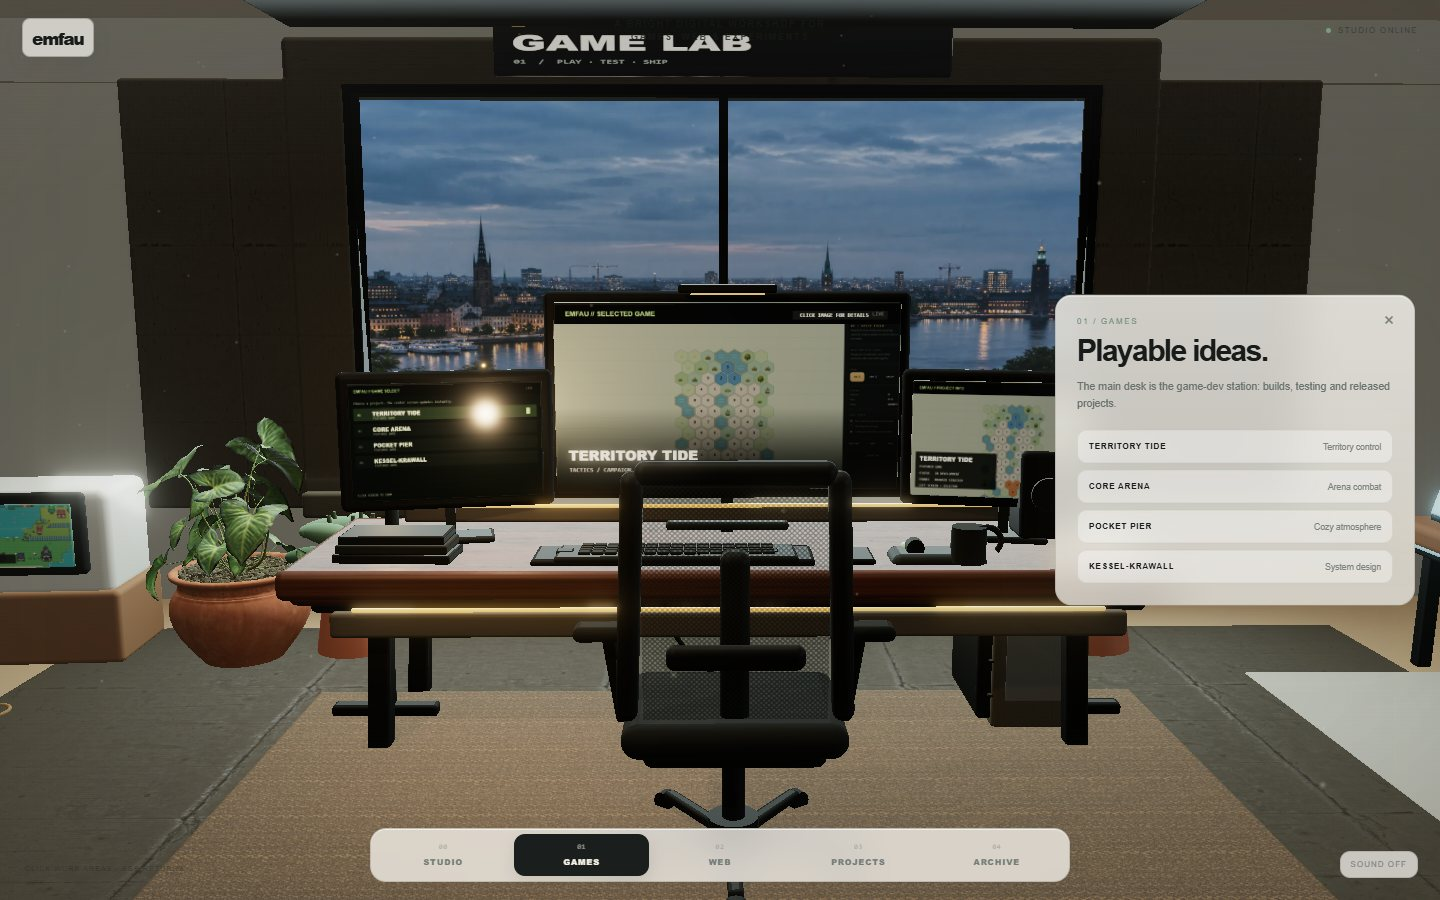
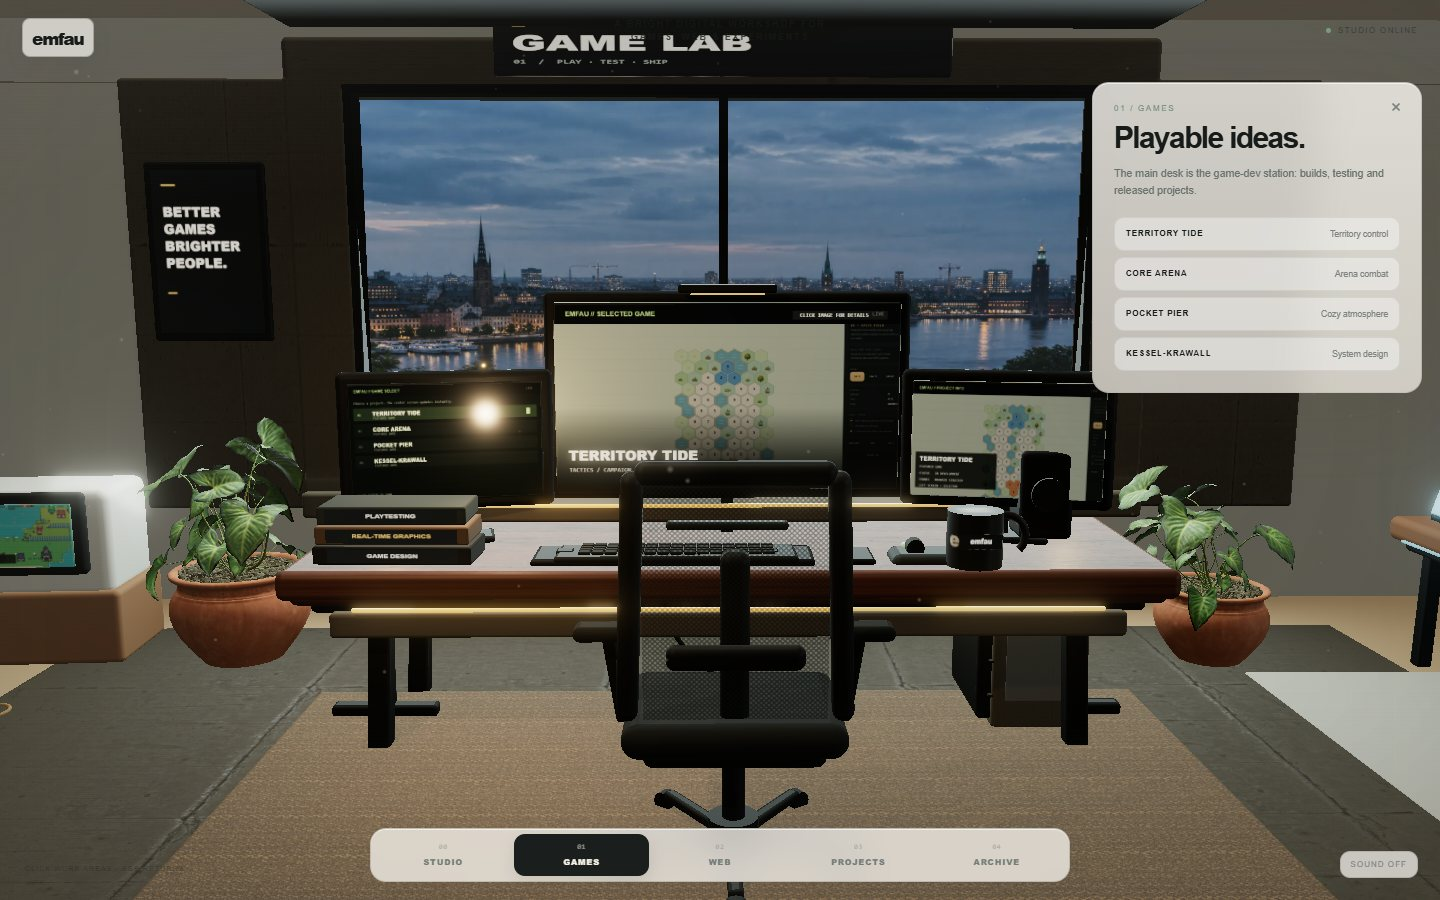
Refine Games desk typography and layout

diff --git a/src/scene/photoreal/gamesHero.ts b/src/scene/photoreal/gamesHero.ts
@@ -9,6 +9,7 @@ export interface GamesHeroMaterials {
   rug: THREE.MeshStandardMaterial
   upholstery: THREE.MeshStandardMaterial
   chairMesh: THREE.MeshStandardMaterial
+  mug: THREE.MeshStandardMaterial
   backdrop: THREE.MeshBasicMaterial
 }
 
@@ -55,6 +56,105 @@ function cylinder(
   mesh.receiveShadow = true
   root.add(mesh)
   return mesh
+}
+
+function canvasMaterial(
+  width: number,
+  height: number,
+  paint: (context: CanvasRenderingContext2D, canvas: HTMLCanvasElement) => void,
+): THREE.MeshBasicMaterial {
+  const canvas = document.createElement('canvas')
+  canvas.width = width
+  canvas.height = height
+  const context = canvas.getContext('2d')
+  if (!context) {
+    const fallback = new THREE.MeshBasicMaterial({ color: 0x171918 })
+    fallback.userData.heroOwned = true
+    return fallback
+  }
+  paint(context, canvas)
+  const texture = new THREE.CanvasTexture(canvas)
+  texture.colorSpace = THREE.SRGBColorSpace
+  texture.anisotropy = 4
+  const material = new THREE.MeshBasicMaterial({ map: texture, toneMapped: false })
+  material.userData.heroOwned = true
+  return material
+}
+
+function addBookStack(root: THREE.Group): void {
+  const labels = ['GAME DESIGN', 'REAL-TIME GRAPHICS', 'PLAYTESTING']
+  const colors = [0x242725, 0x66503d, 0x343a35]
+  for (let index = 0; index < labels.length; index += 1) {
+    const text = labels[index] ?? ''
+    const y = 1.285 + index * 0.122
+    const bookMaterial = new THREE.MeshStandardMaterial({
+      color: colors[index] ?? 0x242725,
+      roughness: 0.78,
+      metalness: 0.02,
+    })
+    bookMaterial.userData.heroOwned = true
+    roundedBox(root, 'DeskBook', [0.96 - index * 0.035, 0.112, 0.4], [-2.02, y, -3.01], bookMaterial, 0.014, 2, [0, -0.035 + index * 0.018, 0])
+
+    const labelMaterial = canvasMaterial(512, 72, (context, canvas) => {
+      context.fillStyle = '#242624'
+      context.fillRect(0, 0, canvas.width, canvas.height)
+      context.fillStyle = index === 1 ? '#e0bd76' : '#ece8dc'
+      context.font = '700 28px Arial'
+      context.textAlign = 'center'
+      context.textBaseline = 'middle'
+      context.fillText(text, canvas.width / 2, canvas.height / 2)
+    })
+    const label = new THREE.Mesh(new THREE.PlaneGeometry(0.79, 0.084), labelMaterial)
+    label.name = 'DeskBookLabel'
+    label.position.set(-2.02, y, -2.806)
+    label.rotation.y = -0.035 + index * 0.018
+    root.add(label)
+  }
+}
+
+function addTypographyPoster(root: THREE.Group, materials: GamesHeroMaterials): void {
+  roundedBox(root, 'GamesTypographyPosterFrame', [1.02, 1.52, 0.065], [-4.42, 3.12, -6.23], materials.graphite, 0.028, 4)
+  const posterMaterial = canvasMaterial(640, 960, (context, canvas) => {
+    context.fillStyle = '#171918'
+    context.fillRect(0, 0, canvas.width, canvas.height)
+    context.fillStyle = '#d9b66f'
+    context.fillRect(62, 82, 84, 9)
+    context.fillStyle = '#eee9dd'
+    context.font = '800 78px Arial'
+    context.textAlign = 'left'
+    context.textBaseline = 'top'
+    for (const [line, y] of [['BETTER', 210], ['GAMES', 310], ['BRIGHTER', 410], ['PEOPLE.', 510]] as const) {
+      context.fillText(line, 62, y)
+    }
+    context.fillStyle = '#d9b66f'
+    context.fillRect(62, 716, 54, 7)
+  })
+  const poster = new THREE.Mesh(new THREE.PlaneGeometry(0.9, 1.38), posterMaterial)
+  poster.name = 'GamesTypographyPoster'
+  poster.position.set(-4.42, 3.12, -6.194)
+  root.add(poster)
+}
+
+function placePlant(root: THREE.Group, plant: THREE.Object3D, name: string, position: readonly [number, number, number], height: number, rotationY: number): void {
+  const plantAnchor = new THREE.Group()
+  plantAnchor.name = name
+  plantAnchor.position.set(...position)
+  plant.updateWorldMatrix(true, true)
+  const initialBounds = new THREE.Box3().setFromObject(plant)
+  const initialHeight = initialBounds.getSize(new THREE.Vector3()).y
+  plant.scale.setScalar(initialHeight > 0 ? height / initialHeight : 1)
+  plant.updateWorldMatrix(true, true)
+  const scaledBounds = new THREE.Box3().setFromObject(plant)
+  plant.position.y -= scaledBounds.min.y
+  plant.rotation.y = rotationY
+  plant.traverse((object) => {
+    if (!(object instanceof THREE.Mesh)) return
+    object.castShadow = true
+    object.receiveShadow = true
+    object.userData.assetManagedGeometry = true
+  })
+  plantAnchor.add(plant)
+  root.add(plantAnchor)
 }
 
 function buildChair(root: THREE.Group, materials: GamesHeroMaterials, segments: number): void {
@@ -128,17 +228,29 @@ function buildDeskDetails(root: THREE.Group, materials: GamesHeroMaterials, segm
   keys.castShadow = true
   keyboard.add(keys)
 
-  cylinder(root, 'DeskMug', 0.105, 0.22, [1.45, 1.34, -2.86], materials.upholstery, segments)
-  const handle = new THREE.Mesh(new THREE.TorusGeometry(0.085, 0.018, 8, Math.max(16, segments), Math.PI * 1.55), materials.upholstery)
+  cylinder(root, 'DeskMug', 0.168, 0.336, [1.48, 1.388, -2.84], materials.mug, segments, [0, Math.PI, 0])
+  const handle = new THREE.Mesh(new THREE.TorusGeometry(0.126, 0.026, 8, Math.max(16, segments), Math.PI * 1.55), materials.mug)
   handle.name = 'DeskMugHandle'
-  handle.position.set(1.56, 1.36, -2.86)
+  handle.position.set(1.66, 1.4, -2.84)
   handle.rotation.z = -Math.PI * 0.25
   handle.castShadow = true
   root.add(handle)
 
-  for (let index = 0; index < 3; index += 1) {
-    roundedBox(root, 'DeskBook', [0.72 - index * 0.04, 0.055, 0.34], [-2.04, 1.25 + index * 0.058, -3.03], index === 1 ? materials.upholstery : materials.graphite, 0.012, 2, [0, -0.05 + index * 0.025, 0])
-  }
+  const mugLabelMaterial = canvasMaterial(512, 144, (context, canvas) => {
+    context.fillStyle = '#171918'
+    context.fillRect(0, 0, canvas.width, canvas.height)
+    context.fillStyle = '#f2eee3'
+    context.font = '900 78px Arial'
+    context.textAlign = 'center'
+    context.textBaseline = 'middle'
+    context.fillText('emfau', canvas.width / 2, canvas.height / 2)
+  })
+  const mugLabel = new THREE.Mesh(new THREE.PlaneGeometry(0.25, 0.082), mugLabelMaterial)
+  mugLabel.name = 'DeskMugLabel'
+  mugLabel.position.set(1.48, 1.4, -2.669)
+  root.add(mugLabel)
+
+  addBookStack(root)
 
   roundedBox(root, 'MonitorLightBar', [0.64, 0.055, 0.075], [0, 2.86, -3.57], materials.graphite, 0.018, 3)
   const lightBarGlow = new THREE.MeshBasicMaterial({ color: 0xffc775, toneMapped: false })
@@ -146,7 +258,7 @@ function buildDeskDetails(root: THREE.Group, materials: GamesHeroMaterials, segm
   roundedBox(root, 'MonitorLightBarGlow', [0.48, 0.012, 0.018], [0, 2.825, -3.52], lightBarGlow, 0.005, 2)
 }
 
-export function buildGamesHero(scene: THREE.Scene, budget: SceneDetailBudget, materials: GamesHeroMaterials, heroPlant: THREE.Object3D | null): GamesHeroController {
+export function buildGamesHero(scene: THREE.Scene, budget: SceneDetailBudget, materials: GamesHeroMaterials, heroPlants: readonly THREE.Object3D[]): GamesHeroController {
   const root = new THREE.Group()
   root.name = 'GamesPhotorealHero'
   scene.add(root)
@@ -164,29 +276,10 @@ export function buildGamesHero(scene: THREE.Scene, budget: SceneDetailBudget, ma
   roundedBox(root, 'GamesWovenRug', [5.72, 0.045, 3.35], [0, 0.025, -2.2], materials.rug, 0.065, 4)
   buildDeskDetails(root, materials, Math.max(16, budget.cylinderSegments))
   buildChair(root, materials, Math.max(16, budget.cylinderSegments))
+  addTypographyPoster(root, materials)
 
-  if (heroPlant) {
-    const plantAnchor = new THREE.Group()
-    plantAnchor.name = 'GamesHeroPlant'
-    plantAnchor.position.set(-3.72, 0, -4.72)
-    heroPlant.updateWorldMatrix(true, true)
-    const initialBounds = new THREE.Box3().setFromObject(heroPlant)
-    const initialHeight = initialBounds.getSize(new THREE.Vector3()).y
-    const scale = initialHeight > 0 ? 1.82 / initialHeight : 1
-    heroPlant.scale.setScalar(scale)
-    heroPlant.updateWorldMatrix(true, true)
-    const scaledBounds = new THREE.Box3().setFromObject(heroPlant)
-    heroPlant.position.y -= scaledBounds.min.y
-    heroPlant.rotation.y = -0.42
-    heroPlant.traverse((object) => {
-      if (!(object instanceof THREE.Mesh)) return
-      object.castShadow = true
-      object.receiveShadow = true
-      object.userData.assetManagedGeometry = true
-    })
-    plantAnchor.add(heroPlant)
-    root.add(plantAnchor)
-  }
+  if (heroPlants[0]) placePlant(root, heroPlants[0], 'GamesHeroPlantLeft', [-3.72, 0, -4.72], 1.82, -0.42)
+  if (heroPlants[1]) placePlant(root, heroPlants[1], 'GamesHeroPlantRight', [3.73, 0, -4.62], 1.48, 0.58)
 
   const hiddenOriginals = new Map<THREE.Object3D, boolean>()
   for (const name of ['Chair', 'rug']) {
@@ -213,7 +306,11 @@ export function buildGamesHero(scene: THREE.Scene, budget: SceneDetailBudget, ma
         for (const material of objectMaterials) if (material.userData.heroOwned) ownedMaterials.add(material)
       })
       for (const geometry of geometries) geometry.dispose()
-      for (const material of ownedMaterials) material.dispose()
+      for (const material of ownedMaterials) {
+        const mapped = material as THREE.Material & { map?: THREE.Texture | null }
+        mapped.map?.dispose()
+        material.dispose()
+      }
     },
   }
 }

diff --git a/src/scene/photoreal/gamesProof.ts b/src/scene/photoreal/gamesProof.ts
@@ -29,6 +29,7 @@ interface MaterialSet {
   rug: THREE.MeshStandardMaterial
   upholstery: THREE.MeshStandardMaterial
   chairMesh: THREE.MeshStandardMaterial
+  mug: THREE.MeshStandardMaterial
   backdrop: THREE.MeshBasicMaterial
   ownedTextures: THREE.Texture[]
 }
@@ -78,6 +79,25 @@ function createChairMeshMaterial(ownedTextures: THREE.Texture[]): THREE.MeshStan
     opacity: 0.92,
     side: THREE.DoubleSide,
   })
+}
+
+function createMugMaterial(ownedTextures: THREE.Texture[]): THREE.MeshStandardMaterial {
+  const canvas = document.createElement('canvas')
+  canvas.width = 768
+  canvas.height = 256
+  const context = canvas.getContext('2d')
+  if (!context) return new THREE.MeshStandardMaterial({ color: 0x171918, roughness: 0.48 })
+  context.fillStyle = '#171918'
+  context.fillRect(0, 0, canvas.width, canvas.height)
+  context.fillStyle = '#f2eee3'
+  context.font = '900 92px Arial'
+  context.textAlign = 'center'
+  context.textBaseline = 'middle'
+  context.fillText('emfau', canvas.width / 2, canvas.height / 2)
+  const texture = new THREE.CanvasTexture(canvas)
+  texture.colorSpace = THREE.SRGBColorSpace
+  ownedTextures.push(texture)
+  return new THREE.MeshStandardMaterial({ map: texture, roughness: 0.42, metalness: 0.03 })
 }
 
 async function loadMaterialSet(assets: AssetManager, anisotropy: number, desktop: boolean): Promise<MaterialSet> {
@@ -157,6 +177,7 @@ async function loadMaterialSet(assets: AssetManager, anisotropy: number, desktop
   upholstery.color.set(0x222522)
   upholstery.roughness = 0.82
   const chairMesh = createChairMeshMaterial(ownedTextures)
+  const mug = createMugMaterial(ownedTextures)
 
   let rug = createPbrMaterial('chairMesh') as THREE.MeshStandardMaterial
   rug.color.set(0x706153)
@@ -187,7 +208,7 @@ async function loadMaterialSet(assets: AssetManager, anisotropy: number, desktop
   }
 
   const backdrop = new THREE.MeshBasicMaterial({ map: backdropTexture, color: 0xffffff, toneMapped: false, fog: false })
-  return { concrete, walnut, graphite, floor, rug, upholstery, chairMesh, backdrop, ownedTextures }
+  return { concrete, walnut, graphite, floor, rug, upholstery, chairMesh, mug, backdrop, ownedTextures }
 }
 
 function addRoundedBox(root: THREE.Group, name: string, size: readonly [number, number, number], position: readonly [number, number, number], material: THREE.Material, radius: number, segments: number): THREE.Mesh {
@@ -234,7 +255,7 @@ function buildShell(materials: MaterialSet, budget: SceneDetailBudget): THREE.Gr
 function collectLegacyWindowLayers(scene: THREE.Scene): Map<THREE.Object3D, boolean> {
   const originals = new Map<THREE.Object3D, boolean>()
   scene.traverse((object) => {
-    if (['sky', 'City', 'mullion', 'windowTop', 'windowBottom', 'GamesPortalRibs'].includes(object.name)) {
+    if (['sky', 'City', 'mullion', 'windowTop', 'windowBottom', 'GamesPortalRibs', 'Plant'].includes(object.name)) {
       originals.set(object, object.visible)
     }
   })
@@ -267,15 +288,19 @@ export async function createGamesPhotorealProof(options: GamesProofOptions): Pro
   const { scene, renderer, materials: current, budget, quality, assets } = options
   const desktop = quality.name === 'desktop'
   const legacyWindowLayers = collectLegacyWindowLayers(scene)
-  const [materials, heroPlant] = await Promise.all([
+  const [materials, leftHeroPlant, rightHeroPlant] = await Promise.all([
     loadMaterialSet(assets, budget.textureAnisotropy, desktop),
+    desktop
+      ? assets.loadModel(`${ASSET_ROOT}models/potted-plant-02.glb`).then((model) => model.root).catch(() => null)
+      : Promise.resolve(null),
     desktop
       ? assets.loadModel(`${ASSET_ROOT}models/potted-plant-02.glb`).then((model) => model.root).catch(() => null)
       : Promise.resolve(null),
   ])
   const shell = buildShell(materials, budget)
   scene.add(shell)
-  const hero = buildGamesHero(scene, budget, materials, heroPlant)
+  const heroPlants = [leftHeroPlant, rightHeroPlant].filter((plant): plant is THREE.Object3D => plant !== null)
+  const hero = buildGamesHero(scene, budget, materials, heroPlants)
   const originals = swapGamesMaterials(scene, current, materials)
 
   const previousEnvironment = scene.environment
@@ -335,7 +360,7 @@ export async function createGamesPhotorealProof(options: GamesProofOptions): Pro
       setActive(false)
       shell.removeFromParent()
       hero.dispose()
-      if (heroPlant) assets.release(heroPlant)
+      for (const plant of heroPlants) assets.release(plant)
       key.removeFromParent()
       key.target.removeFromParent()
       fill.removeFromParent()
@@ -349,6 +374,7 @@ export async function createGamesPhotorealProof(options: GamesProofOptions): Pro
       materials.rug.dispose()
       materials.upholstery.dispose()
       materials.chairMesh.dispose()
+      materials.mug.dispose()
       materials.backdrop.dispose()
       for (const texture of materials.ownedTextures) texture.dispose()
     },

diff --git a/src/styles/base.css b/src/styles/base.css
@@ -116,6 +116,13 @@ body.focus .info{opacity:1;pointer-events:auto;transform:translateY(-50%) transl
 
 /* Contextual HUD composition */
 
+/* Games: leave the desk surface and hero props unobstructed. */
+body.view-games .info{
+  right:18px;top:82px;width:min(330px,calc(100vw - 34px));
+  transform:translateY(-12px) translateX(26px)
+}
+body.focus.view-games .info{transform:translateY(0) translateX(0)}
+
 /* Web: keep information away from the two screens. */
 body.view-web .info{
   left:24px;right:auto;top:86px;width:min(270px,calc(100vw - 34px));
